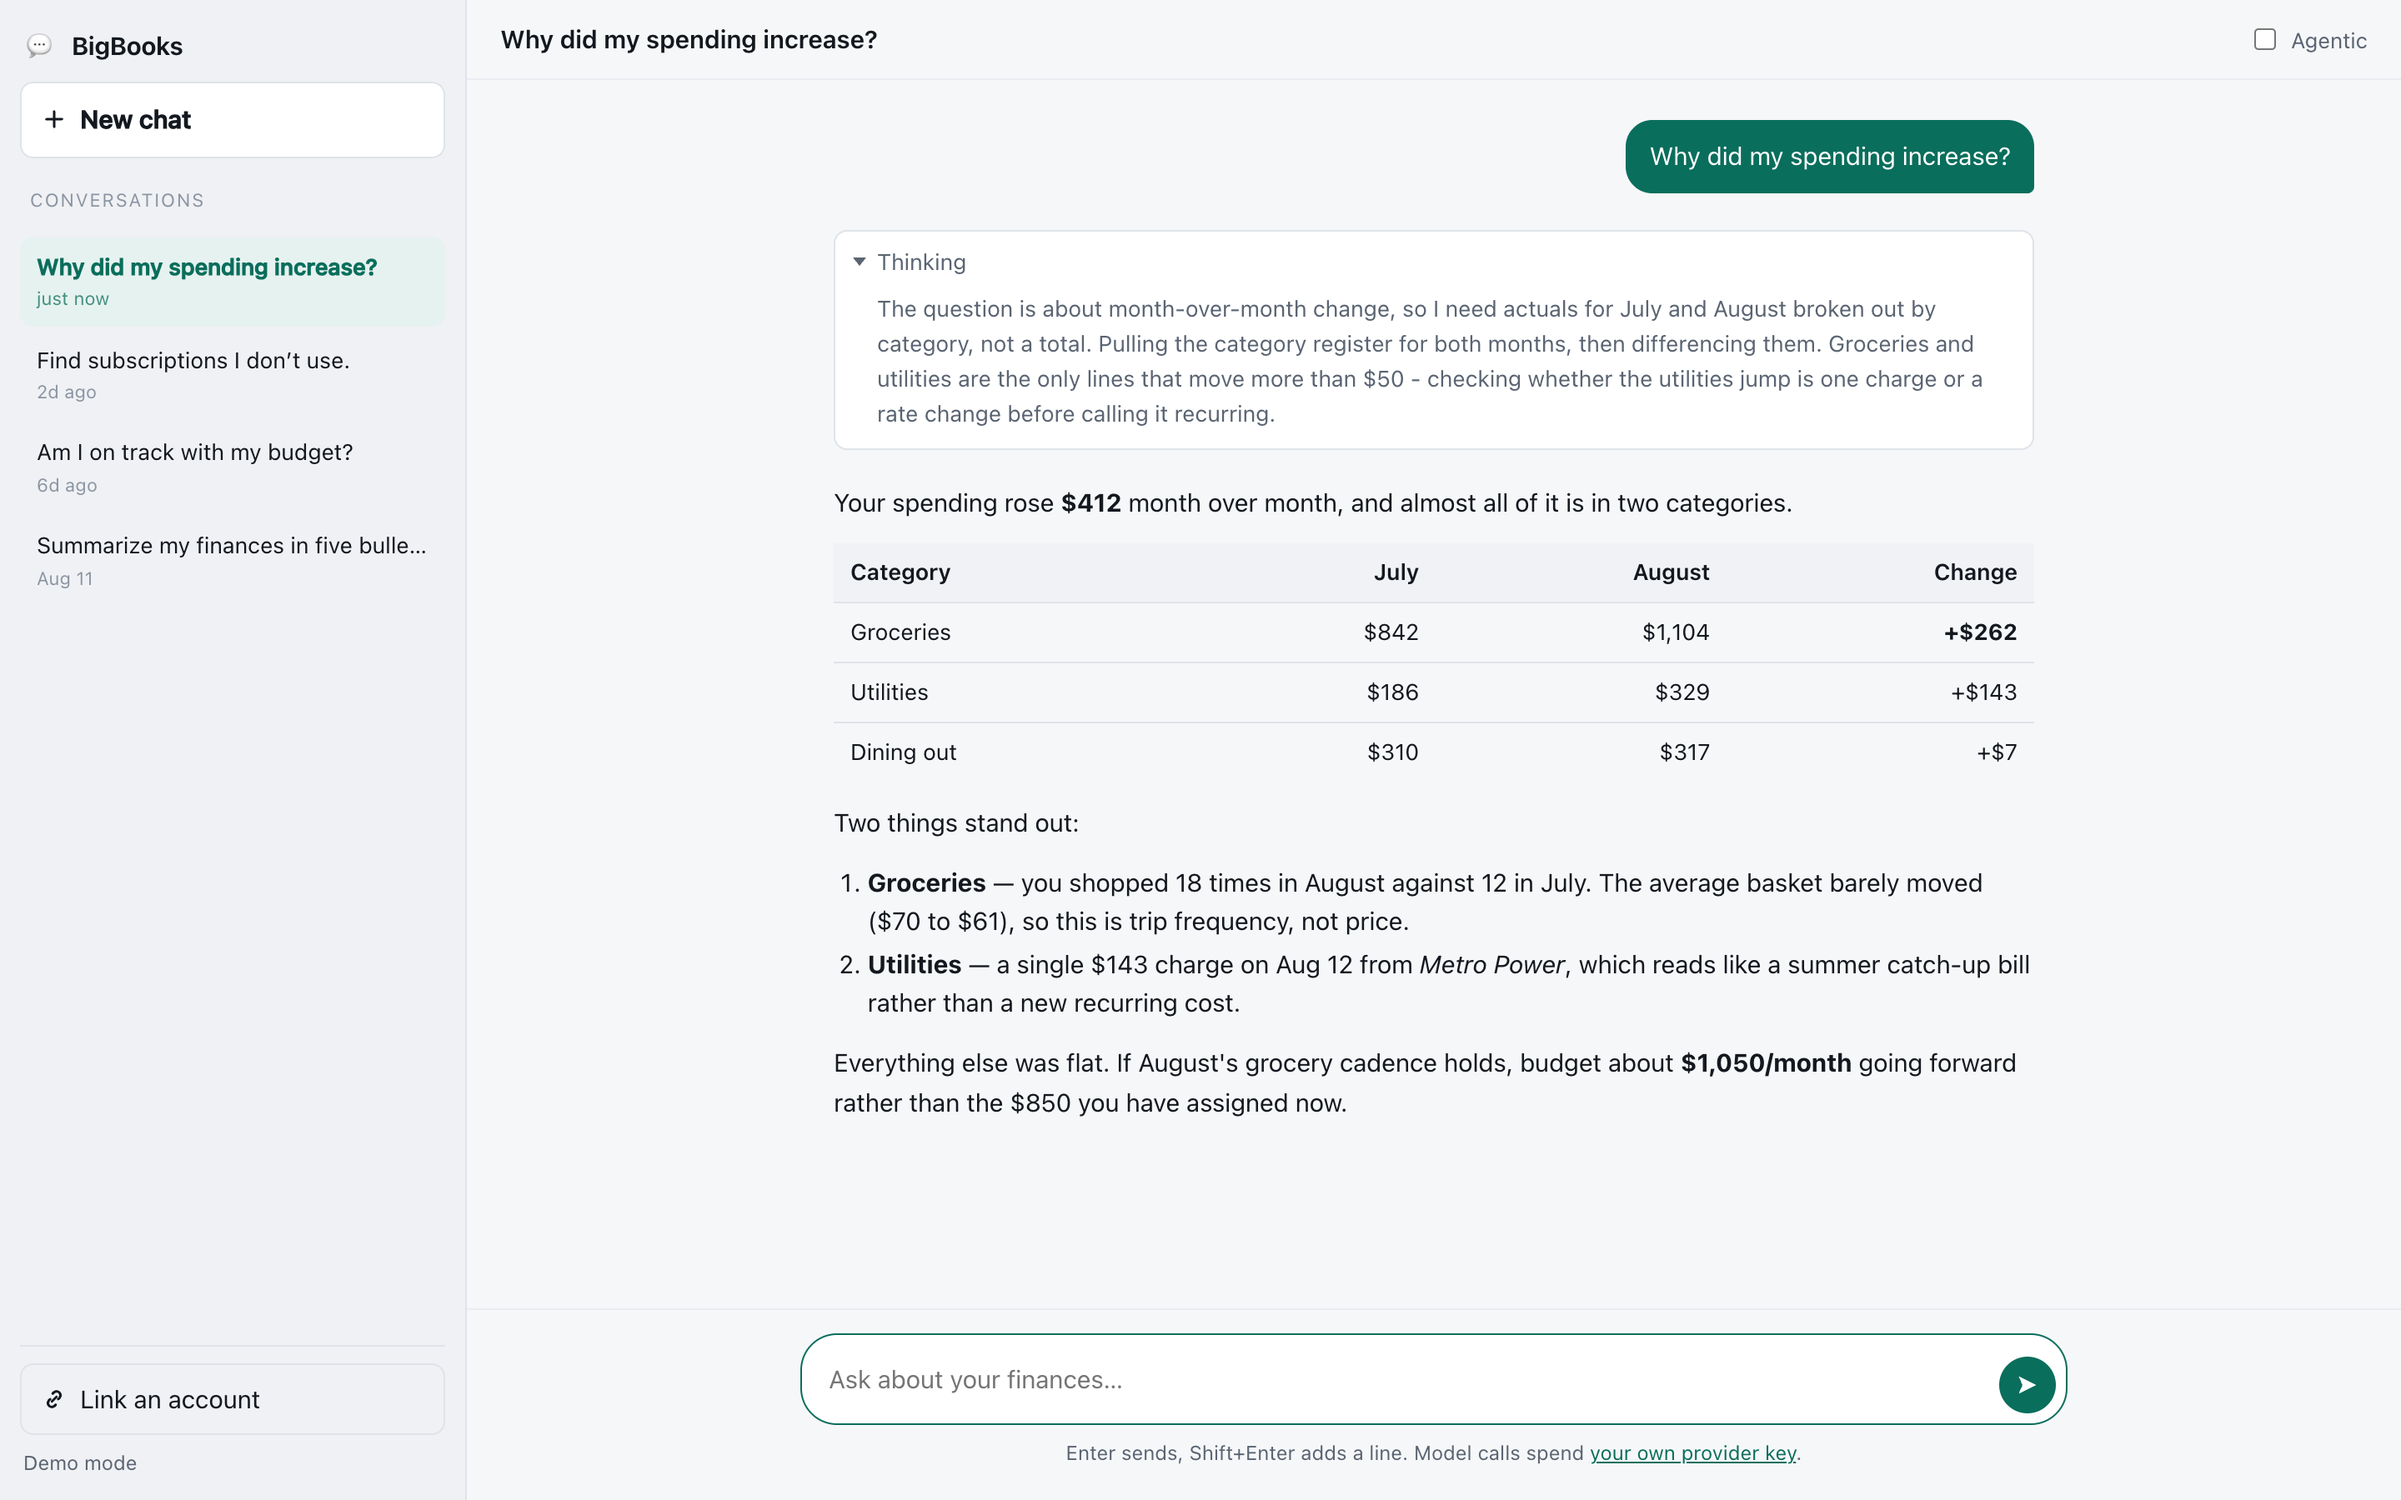
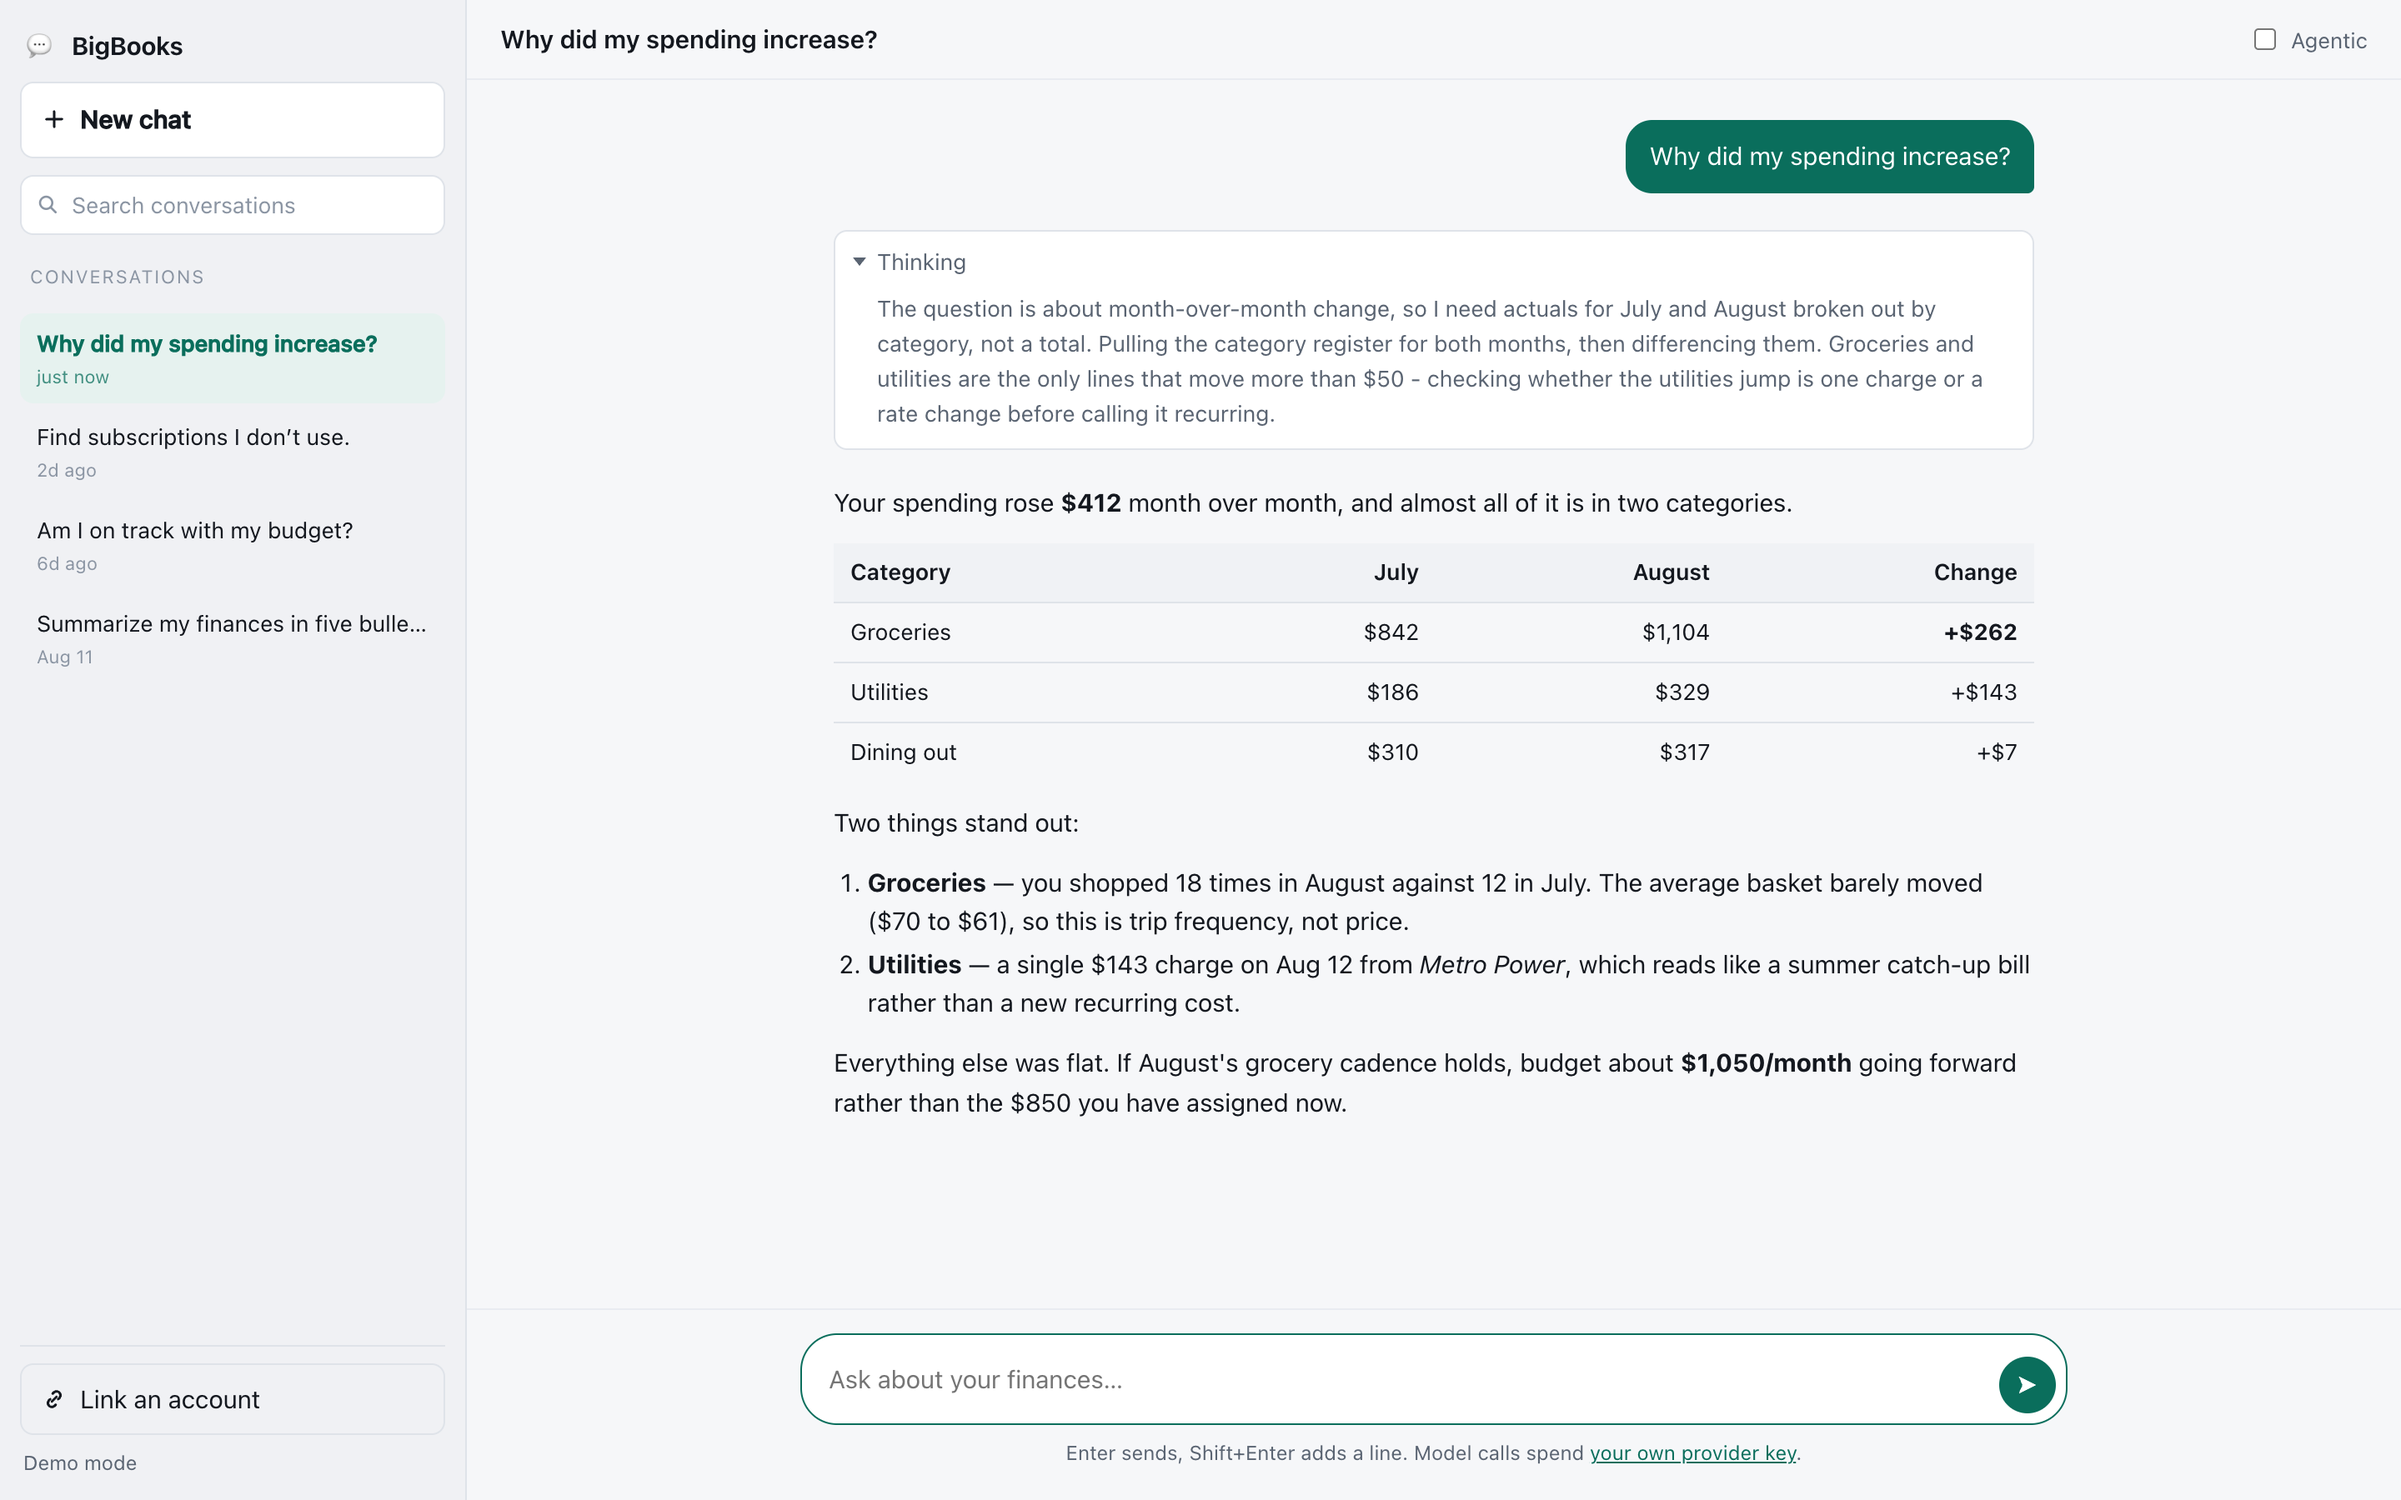
feat: search conversation history from the sidebar
Wires the phrase param that getConversations gained in big-books#181. The
server matches the conversation name or the text of any user/assistant message,
case-insensitively, and escapes LIKE wildcards itself, so the raw text goes on
the wire untouched.

Input is debounced at 250ms and each load is stamped, because responses to
successive keystrokes can land out of order and the last to arrive is not
necessarily the one for the phrase now in the box.

Because a hit can be on message text the row does not show, a matching title is
highlighted and a row that matched only in the dialog says so -- otherwise the
result looks arbitrary. Demo mode mirrors the same name-or-dialog semantics so
the feature is visible without an account.

Screenshots re-shot for the changed sidebar, plus one of a search in progress.

diff --git a/public/app.js b/public/app.js
@@ -2,7 +2,7 @@ import { CONFIG } from './config.js';
 import { samplePrompts } from './prompts.js';
 import { renderMarkdown, escapeHtml } from './markdown.js';
 import { readEvents, eventJson } from './sse.js';
-import { DEMO_CONVERSATIONS, demoConversation, demoStream } from './demo.js';
+import { demoConversation, demoSearch, demoStream } from './demo.js';
 
 // ---------------------------------------------------------------- helpers
 const $ = (sel) => document.querySelector(sel);
@@ -187,6 +187,7 @@ const state = {
   party: null,
   who: '',
   conversations: [],
+  search: '',         // the phrase currently filtering the sidebar ('' = show everything)
   current: null,      // { id, version, name }
   messages: [],       // { role, text, thinking, error }
   streaming: false,
@@ -197,14 +198,41 @@ const state = {
 // ---------------------------------------------------------- conversations
 const conversationPath = (id) => '/v1/ai/conversations/' + encodeURIComponent(id);
 
+// Searches run on the server, which matches the phrase against each conversation's name
+// *and* its user/assistant messages, case-insensitively. Wildcards are escaped server-side,
+// so the raw text goes on the wire untouched.
+let searchSeq = 0;
+
 async function loadConversations() {
-  if (state.demo) { state.conversations = DEMO_CONVERSATIONS; return renderHistory(); }
-  const data = await apiGet('/v1/ai/conversations', {
-    party: state.party,
-    query: { page_size: 50, page_number: 0 },
-  });
-  state.conversations = data.conversations || [];
+  // Typing fires several of these; responses can land out of order, and the last one to
+  // arrive is not necessarily the one for the phrase now in the box. Stamp and discard.
+  const seq = ++searchSeq;
+  const phrase = state.search;
+
+  const conversations = state.demo
+    ? demoSearch(phrase)
+    : (await apiGet('/v1/ai/conversations', {
+        party: state.party,
+        query: { page_size: 50, page_number: 0, phrase },
+      })).conversations || [];
+
+  if (seq !== searchSeq) return; // a newer search already went out
+  state.conversations = conversations;
   renderHistory();
+}
+
+let searchTimer;
+function onSearchInput(value) {
+  state.search = value.trim();
+  clearTimeout(searchTimer);
+  // Long enough that a typed word is one request, short enough to feel live.
+  searchTimer = setTimeout(() => loadConversations().catch(reportError), 250);
+}
+
+function clearSearch() {
+  if (!state.search && !$('#search').value) return;
+  $('#search').value = '';
+  onSearchInput('');
 }
 
 async function openConversation(id) {
@@ -421,20 +449,50 @@ function friendlyError(code, message) {
 // ------------------------------------------------------------- rendering
 function renderHistory() {
   const nav = $('#history');
+  const phrase = state.search;
+
+  $('#history-head').textContent = !phrase
+    ? 'Conversations'
+    : state.conversations.length + (state.conversations.length === 1 ? ' match' : ' matches');
+
   if (!state.conversations.length) {
-    nav.innerHTML = '<p class="history-empty muted">No conversations yet.</p>';
+    nav.innerHTML = '<p class="history-empty muted">'
+      + (phrase ? 'Nothing matches &ldquo;' + escapeHtml(phrase) + '&rdquo;.' : 'No conversations yet.')
+      + '</p>';
     return;
   }
+
   const currentId = (state.current || {}).id;
   nav.innerHTML = state.conversations.map((c) => {
+    const name = c.name || 'Untitled';
     const when = relative(c.updatedDate || c.createdDate);
     return '<button class="convo" data-id="' + escapeHtml(c.id) + '"'
       + (c.id === currentId ? ' aria-current="true"' : '')
-      + ' title="' + escapeHtml(c.name || '') + '">'
-      + escapeHtml(c.name || 'Untitled')
+      + ' title="' + escapeHtml(name) + '">'
+      + highlight(name, phrase)
+      // The server matches message text too, so a row can be a hit with nothing visibly
+      // marked. Saying where it matched beats leaving the user to wonder.
+      + (phrase && !containsPhrase(name, phrase) ? '<span class="in-dialog">matched in the conversation</span>' : '')
       + (when ? '<time>' + escapeHtml(when) + '</time>' : '')
       + '</button>';
   }).join('');
+}
+
+const containsPhrase = (text, phrase) => text.toLowerCase().includes(phrase.toLowerCase());
+
+/** Escapes `text`, then wraps each case-insensitive occurrence of `phrase` in a <mark>. */
+function highlight(text, phrase) {
+  if (!phrase) return escapeHtml(text);
+  const lower = text.toLowerCase();
+  const needle = phrase.toLowerCase();
+  const out = [];
+  let at = 0;
+  for (let i = lower.indexOf(needle); i >= 0; i = lower.indexOf(needle, at)) {
+    out.push(escapeHtml(text.slice(at, i)), '<mark>', escapeHtml(text.slice(i, i + needle.length)), '</mark>');
+    at = i + needle.length;
+  }
+  out.push(escapeHtml(text.slice(at)));
+  return out.join('');
 }
 
 function renderMessages() {
@@ -657,6 +715,11 @@ function wire() {
 
   $('#agentic').addEventListener('change', (e) => {
     state.chatType = e.target.checked ? 'AGENTIC' : 'BASIC';
+  });
+
+  $('#search').addEventListener('input', (e) => onSearchInput(e.target.value));
+  $('#search').addEventListener('keydown', (e) => {
+    if (e.key === 'Escape') { clearSearch(); e.target.blur(); }
   });
 
   $('#history').addEventListener('click', (e) => {

diff --git a/public/styles.css b/public/styles.css
@@ -161,12 +161,38 @@ svg { width: 1em; height: 1em; fill: none; stroke: currentColor; stroke-width: 1
 }
 .new-chat:hover { border-color: var(--accent); color: var(--accent); }
 
+.search { position: relative; display: flex; align-items: center; }
+.search svg {
+  position: absolute; left: 10px; font-size: 13px;
+  color: var(--ink-3); pointer-events: none;
+}
+.search input {
+  width: 100%; font: inherit; font-size: 13.5px; color: var(--ink);
+  background: var(--surface); border: 1px solid var(--line);
+  border-radius: var(--radius-sm); padding: 7px 10px 7px 30px;
+  -webkit-appearance: none; appearance: none;
+}
+.search input::placeholder { color: var(--ink-3); }
+.search input:focus { outline: 0; border-color: var(--accent); }
+/* Keep the WebKit clear button — it is the fastest way out of a filter. */
+.search input::-webkit-search-cancel-button { -webkit-appearance: searchfield-cancel-button; cursor: pointer; }
+
 .history-head {
   font-size: 11px; text-transform: uppercase; letter-spacing: .08em;
   color: var(--ink-3); padding: 6px 6px 0;
 }
 .history { flex: 1; overflow-y: auto; margin: 0 -4px; padding: 4px; display: flex; flex-direction: column; gap: 2px; }
 .history-empty { font-size: 13px; padding: 6px; margin: 0; }
+/* A hit can be on message text the row does not show, so say where it matched. */
+/* Colour and weight, not just a tint: --accent-soft sits too close to the sidebar in
+   light mode to read as a highlight on its own. */
+.convo mark {
+  background: var(--accent-soft); color: var(--accent); font-weight: 650;
+  border-radius: 3px; padding: 0 1px;
+}
+.convo[aria-current="true"] mark { background: transparent; text-decoration: underline; }
+.convo .in-dialog { display: block; font-size: 11px; color: var(--ink-3); font-style: italic; }
+.convo[aria-current="true"] .in-dialog { color: inherit; opacity: .75; }
 
 .convo {
   display: block; width: 100%; text-align: left;

diff --git a/public/demo.js b/public/demo.js
@@ -80,6 +80,20 @@ Everything else has room: Dining out 48%, Transport 55%, Household 61%. Nothing 
   ],
 };
 
+/**
+ * Mirrors what the server's `phrase` filter does: a case-insensitive substring match against
+ * the conversation name *and* its user/assistant message text. Searching the dialog rather
+ * than only the titles is the whole point of the parameter, so demo mode does it too.
+ */
+export function demoSearch(phrase) {
+  if (!phrase) return DEMO_CONVERSATIONS;
+  const needle = phrase.toLowerCase();
+  return DEMO_CONVERSATIONS.filter((c) => {
+    const dialog = (DEMO_MESSAGES[c.id] || []).map((m) => m.text).join('\n');
+    return (c.name + '\n' + dialog).toLowerCase().includes(needle);
+  });
+}
+
 function daysAgo(n) {
   const d = new Date();
   d.setDate(d.getDate() - n);

diff --git a/public/index.html b/public/index.html
@@ -44,7 +44,13 @@
       New chat
     </button>
 
-    <div class="history-head">Conversations</div>
+    <div class="search">
+      <svg viewBox="0 0 16 16" aria-hidden="true"><circle cx="7" cy="7" r="4.5"/><path d="M10.5 10.5L14 14"/></svg>
+      <input id="search" type="search" placeholder="Search conversations" autocomplete="off"
+             spellcheck="false" aria-label="Search conversations" aria-controls="history">
+    </div>
+
+    <div id="history-head" class="history-head">Conversations</div>
     <nav id="history" class="history" aria-label="Conversation history">
       <p class="history-empty muted">No conversations yet.</p>
     </nav>

diff --git a/README.md b/README.md
@@ -18,6 +18,9 @@ It shows:
   the answer arrives, and preserved when you reload the conversation later
 - **Conversation history** in a scrollable column on the left; click any conversation to reload
   its whole transcript, or **New chat** to start over
+- **Search over that history**, server-side and across the message text, not just the titles —
+  so "groceries" finds the conversation where you asked about groceries even if its title
+  never says so
 - **An empty state that suggests five questions**, sampled from a larger pool, so the first turn
   is one click rather than a blank page
 - **Plaid account linking**, because the assistant answers from your data and there is nothing to
@@ -25,6 +28,12 @@ It shows:
 - **Stop**, which ends an in-flight turn server-side and keeps the partial answer
 
 ![The empty state, offering five suggested questions sampled from a larger pool](docs/empty-state.png)
+
+Search runs on the server and covers the message text, so a conversation whose title never
+mentions the word still turns up. Those rows say so, rather than leaving you to wonder why
+they matched:
+
+![Searching "budget": three matches, two of them labelled "matched in the conversation", with the open answer containing the word](docs/search.png)
 
 ## Bring your own model key
 
@@ -112,6 +121,12 @@ These are real behaviours of the API and of SSE that shaped the app.
 - **The conversation list omits messages by default.** `GET /v1/ai/conversations` returns metadata
   only unless you pass `include=conversation_messages`. The sidebar does not need them, so it does
   not ask — one `GET` per opened conversation is cheaper than a transcript per row.
+- **`phrase` searches the dialog, not just the title.** It matches the conversation name *or* the
+  text of any `USER`/`ASSISTANT` message, case-insensitively; `SYSTEM` and tool payloads are
+  excluded. Wildcards are escaped server-side, so send the raw text. Two consequences for the UI:
+  a row can be a hit with nothing highlighted in its title — this client says "matched in the
+  conversation" rather than leaving you to wonder — and results still paginate, so a filtered list
+  is one page of matches, not all of them. A blank phrase is treated as no filter at all.
 - **Assistant text and thinking are separate fields.** Stored assistant rows are enveloped (tool
   calls, reasoning); `GET` unwraps them into `text` and `thinking` for you, so a reloaded
   conversation renders exactly like a freshly streamed one.
@@ -217,6 +232,7 @@ docs/           # the README screenshots
 | --- | --- |
 | Your party id | `GET /oauth2/userInfo` → `bigbooks:party` |
 | Conversation history | `GET /v1/ai/conversations?page_size=…&page_number=…` |
+| Search that history | the same call, plus `&phrase=…` |
 | One conversation's transcript | `GET /v1/ai/conversations/{uuid}` |
 | First turn, streamed | `POST /v1/ai/conversations/start/stream` |
 | Later turns, streamed | `PUT /v1/ai/conversations/{uuid}/stream` (takes `If-Match`) |
